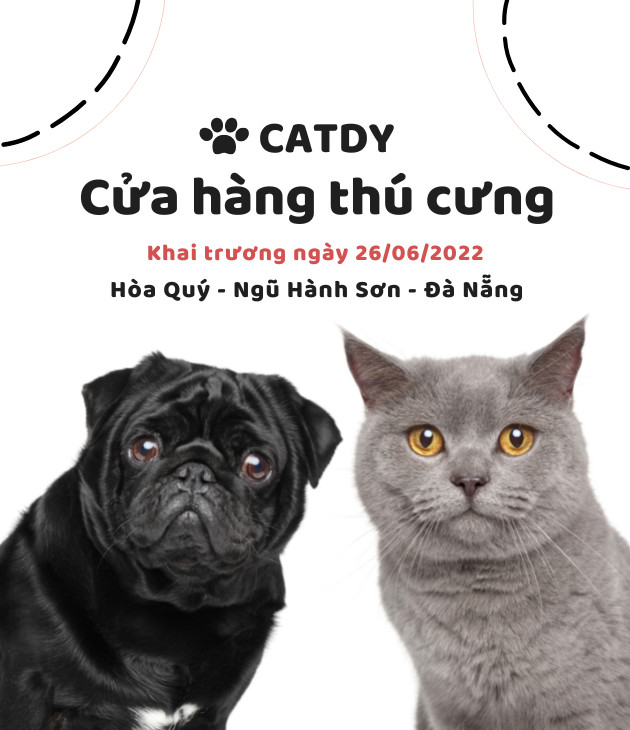
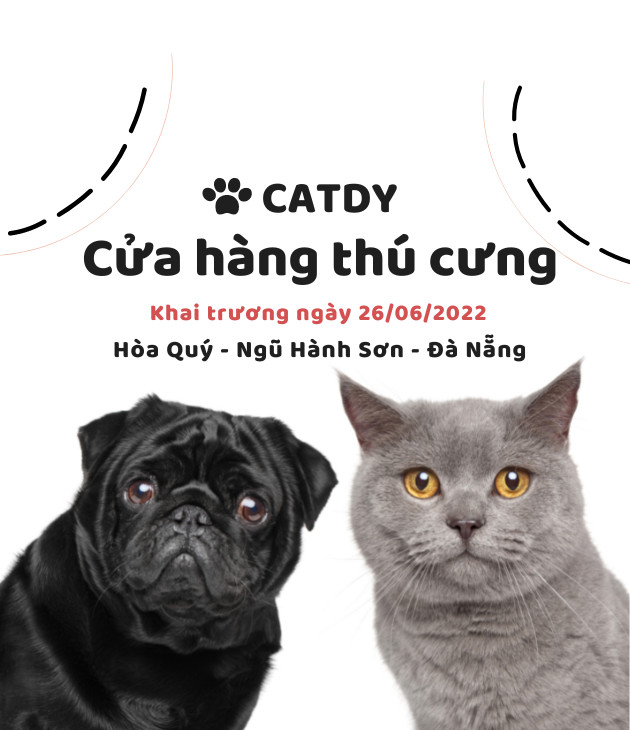
upload source code

diff --git a/html/style.css b/html/style.css
@@ -26,7 +26,7 @@ ul{
 	margin: auto;
 }
 .main{
-	margin-top: 100px;
+	margin-top: 20vh;
 }
 /* ----------------------------------header--------------------------------------- */
 .header-content{
